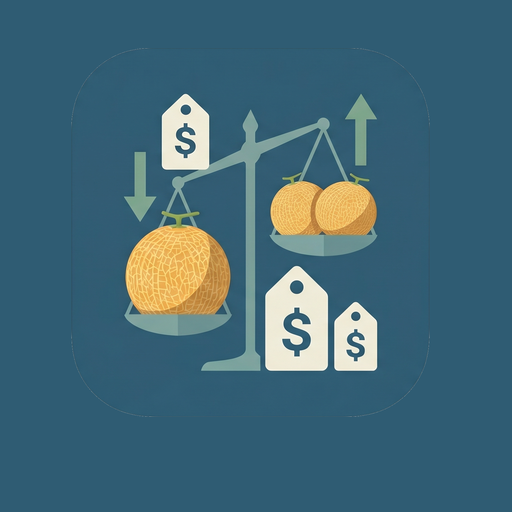
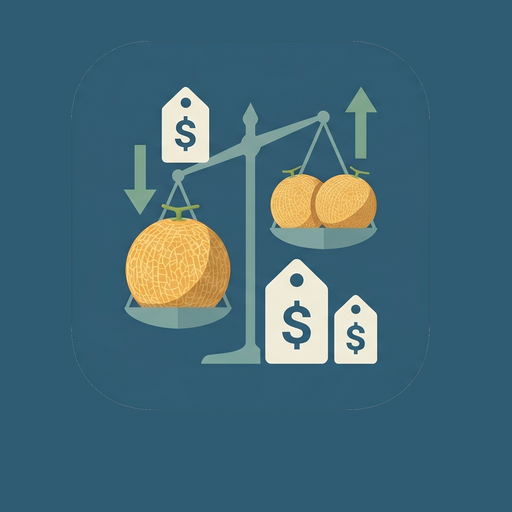
chore(005): F-Droid doc sync for v0.1.8 (PR W) (#42)
* chore(005): v0.1.8 release prep (PR W)

Bump versionCode 9, changelogs, ART_OFFSET_Y -95 icon regen, and
fdroid.md playbook sync for three-offer compare.

* docs(fdroid): pin Builds commit SHA for v0.1.8 recipe twin

---------

Changed region(s): [[0.2188, 0.1562, 0.75, 0.75], [0.25, 0.2812, 0.2812, 0.3125]]

diff --git a/branding/regenerate-icons.py b/branding/regenerate-icons.py
@@ -69,7 +69,8 @@ BG_HEX = "#2F5C73"
 # Negative values shift art left/up on the output canvas. Re-measure if
 # FRAME_BOX changes.
 ART_OFFSET_X_PX = -17
-ART_OFFSET_Y_PX = -74
+# v0.1.8: nudge further up so circular masks show even top/bottom air.
+ART_OFFSET_Y_PX = -95
 
 ART_SCALE = 0.72
 

diff --git a/docs/fdroid.md b/docs/fdroid.md
@@ -83,9 +83,9 @@ Repo: https://github.com/mablanco/pricegrab.git
 Binaries: https://github.com/mablanco/pricegrab/releases/download/v%v/app-release.apk
 
 Builds:
-  - versionName: 0.1.7
-    versionCode: 8
-    commit: 80c11dc4b8dd622be2d3082fd9ec0acc672fde4c
+  - versionName: 0.1.8
+    versionCode: 9
+    commit: ce31727ab3d628cb849fcee3580d9932b9823d3d
     subdir: android/app
     gradle:
       - yes
@@ -94,8 +94,8 @@ AllowedAPKSigningKeys: 70a9709ce5a4829668d9d50411b959bb90ad2e19d02e2069ad0ff3528
 
 AutoUpdateMode: Version
 UpdateCheckMode: Tags
-CurrentVersion: 0.1.7
-CurrentVersionCode: 8
+CurrentVersion: 0.1.8
+CurrentVersionCode: 9
 ```
 
 **Why these fields.**
@@ -121,7 +121,7 @@ CurrentVersionCode: 8
   the recipe Mode B: F-Droid will never publish an F-Droid-signed
   fallback for this package.
 - `Builds[0].commit:` uses the **full 40-character SHA-1** of the
-  v0.1.7 commit, not the tag name. F-Droid prefers immutable commit
+  v0.1.8 commit, not the tag name. F-Droid prefers immutable commit
   hashes over mutable tags; this convention is also what
   `AutoUpdateMode` itself writes when it auto-generates entries for
   future tags, so the style stays consistent across manual and
@@ -361,6 +361,12 @@ What it took to get to the current state, in chronological order:
     `UpdateCheckMode: Tags` picks up the `v0.1.7` tag once Marco ships
     it after manual verification (T036); the `Builds[0].commit` in §3
     points at the tagged release commit on `main`.
+12. **Upstream playbook sync for v0.1.8** (2026-07-19): feature 005
+    (compare up to three offers) lands via PR U/V; this PR W bumps to
+    `0.1.8` / `versionCode` 9, changelogs for code 9, and
+    `ART_OFFSET_Y_PX` icon vertical nudge. F-Droid still has v0.1.7
+    marked `disable: not repro` in fdroiddata — a clean `v0.1.8` tag
+    is the intended auto-update target. Same Mode B contract.
 
 The byte-for-byte reproducibility verification for the **first**
 publication happened on F-Droid's main build farm via `fdroid publish`

diff --git a/specs/005-multi-offer-compare/tasks.md b/specs/005-multi-offer-compare/tasks.md
@@ -39,10 +39,10 @@
 
 ## Phase 4: Release
 
-- [ ] T021 Bump versionCode 9 / versionName 0.1.8.
-- [ ] T022 Changelogs en/es for code 9.
-- [ ] T023 `ART_OFFSET_Y_PX` nudge (~−90..−100); regenerate icons.
-- [ ] T024 Update `docs/fdroid.md`; ledger PR U/V/W.
+- [x] T021 Bump versionCode 9 / versionName 0.1.8.
+- [x] T022 Changelogs en/es for code 9.
+- [x] T023 `ART_OFFSET_Y_PX` nudge (~−95); regenerate icons.
+- [x] T024 Update `docs/fdroid.md`; ledger PR U/V/W.
 - [ ] T025 Tag v0.1.8 after manual verification (Marco).
 
 ## PR strategy
